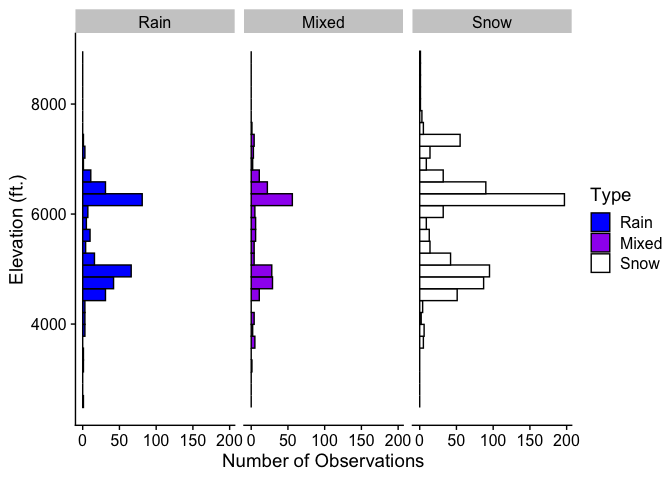
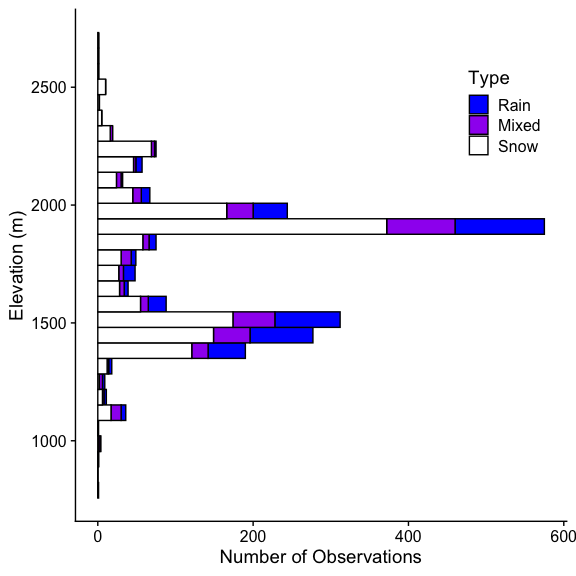
updated analysis of 2020-2021 data

Changed region(s): [[0.0, 0.0, 1.0, 1.0], [0.8125, 0.125, 0.9375, 0.2812]]

diff --git a/analysis/README.md b/analysis/README.md
@@ -99,6 +99,9 @@ library(tidyverse)
 library(cowplot); theme_set(theme_cowplot())
 source("functions/mros_plot_formats.R")
 
+# Lubridate for date handling tools
+library(lubridate)
+
 # Import data
 obs <- readRDS("../data/processed/mros_obs_processed_2020_2021.RDS")
 
@@ -143,7 +146,90 @@ by elevation:
 
 ![](README_files/figure-gfm/unnamed-chunk-4-1.png)<!-- -->
 
-## Rain-snow partitioning
+Or grouped together:
+
+![](README_files/figure-gfm/unnamed-chunk-5-1.png)<!-- -->
+
+## Observations by state and ecoregion
+
+Across the study period, we had the following geographic breakdown of
+observations.
+
+By state:
+
+| state      |    n |
+| :--------- | ---: |
+| California | 1069 |
+| Nevada     | 1179 |
+
+By US EPA Level III Ecoregion:
+
+| eco\_l3                 |    n |
+| :---------------------- | ---: |
+| Central Basin and Range |  827 |
+| Sierra Nevada           | 1421 |
+
+And by US EPA Level IV Ecoregion:
+
+| eco\_l4                                            |    n |
+| :------------------------------------------------- | ---: |
+| Central Sierra Lower Montane Forests               |   41 |
+| Central Sierra Mid-Montane Forests                 |   10 |
+| Lahontan Salt Shrub Basin                          |   10 |
+| Northeastern Sierra Mixed Conifer-Pine Forests     | 1094 |
+| Northern Sierra Mid-Montane Forests                |   15 |
+| Northern Sierra Subalpine Forests                  |    9 |
+| Northern Sierra Upper Montane Forests              |  252 |
+| Sierra Nevada-Influenced Ranges                    |    6 |
+| Sierra Nevada-Influenced Semiarid Hills and Basins |  811 |
+
+## Observations by year
+
+Our *Tahoe Rain or Snow* study period comprised two water years: 2020
+and 2021.
+
+``` r
+# Add water year info
+obsPass <- obsPass %>% 
+   mutate(wy = ifelse(month(date) >= 10,
+                      year(date) + 1,
+                      year(date)),
+          dowy = ifelse(month(date) >= 10,
+                        yday(date) - 273,
+                        yday(date) + 92))
+
+# Compute cumulative observations per phase and water year
+obsPass <- obsPass %>% 
+  arrange(date) %>% 
+  group_by(wy, phase) %>% 
+  mutate(n_cumulative = row_number())
+```
+
+We received 953 observations in water year 2020 and 1295 in 2021. Snow
+was the most frequent phase in both water years, but both rain and mixed
+precipitation increased in relative proportion in 2021.
+
+|   wy | phase |   n |  pct |
+| ---: | :---- | --: | ---: |
+| 2020 | Rain  | 151 | 15.8 |
+| 2020 | Mixed | 134 | 14.1 |
+| 2020 | Snow  | 668 | 70.1 |
+| 2021 | Rain  | 321 | 24.8 |
+| 2021 | Mixed | 204 | 15.8 |
+| 2021 | Snow  | 770 | 59.5 |
+
+![](README_files/figure-gfm/unnamed-chunk-11-1.png)<!-- --> \#\#
+Observations by air temperature
+
+Modeled meteorological data show volunteers submitted precipitation
+phase reports from a minimum air temperature value of -10.2°C to a
+maximum of 25.7°C with a median value of 1.1°C. What’s more, the vast
+majority of reports came from a relatively narrow air temperature range.
+Our data show 95% of observations corresponded to air temperatures
+between -5.0601094°C and 9.5923782°C.
+
+![](README_files/figure-gfm/unnamed-chunk-12-1.png)<!-- --> \#\#
+Rain-snow partitioning
 
 Using the observations and modeled meteorological data, we can compute
 snowfall probability curves and 50% snowfall probability temperatures,
@@ -167,15 +253,15 @@ rs_p <- readRDS("../data/processed/mros_obs_rs_partitioning_2020_2021.RDS")
 
 We can then look at the air temperature snowfall probability plot:
 
-![](README_files/figure-gfm/unnamed-chunk-6-1.png)<!-- -->
+![](README_files/figure-gfm/unnamed-chunk-14-1.png)<!-- -->
 
 The wet bulb temperature snowfall probability plot:
 
-![](README_files/figure-gfm/unnamed-chunk-7-1.png)<!-- -->
+![](README_files/figure-gfm/unnamed-chunk-15-1.png)<!-- -->
 
 And the two of them combined:
 
-![](README_files/figure-gfm/unnamed-chunk-8-1.png)<!-- -->
+![](README_files/figure-gfm/unnamed-chunk-16-1.png)<!-- -->
 
 We notice the 50% threshold is a fair bit higher for air temperature
 verus wet bulb temperature, which is expected because the former is
@@ -194,13 +280,13 @@ between approximately 25% and 50%.
 
 ## 
 
-![](README_files/figure-gfm/unnamed-chunk-10-1.png)<!-- -->
+![](README_files/figure-gfm/unnamed-chunk-18-1.png)<!-- -->
 
-![](README_files/figure-gfm/unnamed-chunk-11-1.png)<!-- -->
+![](README_files/figure-gfm/unnamed-chunk-19-1.png)<!-- -->
 
-![](README_files/figure-gfm/unnamed-chunk-12-1.png)<!-- -->
+![](README_files/figure-gfm/unnamed-chunk-20-1.png)<!-- -->
 
-![](README_files/figure-gfm/unnamed-chunk-13-1.png)<!-- -->
+![](README_files/figure-gfm/unnamed-chunk-21-1.png)<!-- -->
 
 ## GPM IMERG comparison
 
@@ -272,7 +358,7 @@ gpm_summary_noMIXED <- obsGPM %>%
 
 Then plot the analyzed results:
 
-![](README_files/figure-gfm/unnamed-chunk-15-1.png)<!-- -->
+![](README_files/figure-gfm/unnamed-chunk-23-1.png)<!-- -->
 
 ## Rain-snow line comparison
 
@@ -302,4 +388,4 @@ all <- left_join(gpm, flr, by = "datetime")
 
 Plot an event:
 
-![](README_files/figure-gfm/unnamed-chunk-17-1.png)<!-- -->
+![](README_files/figure-gfm/unnamed-chunk-25-1.png)<!-- -->
